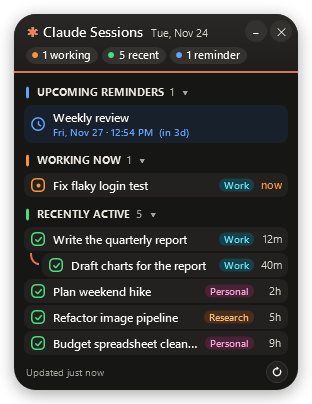
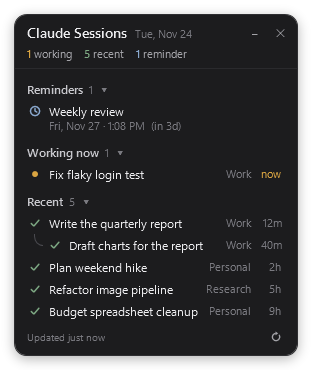
Claude Sessions 1.1.0: plainer design
Neutral grey palette with one muted color per status, sentence-case
section names, plain-text counts and group names, bare status marks,
and a flat header. Install page section and README text simplified to match.

diff --git a/index.html b/index.html
@@ -39,14 +39,15 @@
   .mock-b .hi { outline:2px solid var(--red); outline-offset:6px; border-radius:6px; }
   .feat { display:flex; flex-wrap:wrap; gap:8px; justify-content:center; margin-top:18px; }
   .feat span { border:1px solid var(--line); border-radius:999px; padding:6px 12px; font-size:13px; color:var(--dim); }
-  .cs h2 { color:#e8875f; }
-  .cs .ico { background:rgba(217,119,87,.14); }
-  .cs .btn { background:#c96442; } .cs .btn:hover { background:#d97757; }
-  .shot { display:block; margin:12px auto 0; width:100%; max-width:300px; border-radius:20px; box-shadow:0 12px 32px rgba(0,0,0,.45); }
-  .prompt { position:relative; margin-top:10px; background:var(--card); border:1px solid var(--line); border-radius:18px; padding:14px 16px 14px; }
+  .cs { margin-top:44px; padding-top:28px; border-top:1px solid var(--line); }
+  .cs h3 { font-size:19px; font-weight:600; }
+  .cs .sub { color:var(--dim); font-size:14px; margin-top:4px; }
+  .cs .sub a { color:var(--text); }
+  .shot { display:block; margin:18px auto 0; width:100%; max-width:300px; border-radius:12px; box-shadow:0 8px 24px rgba(0,0,0,.4); }
+  .prompt { margin-top:10px; border:1px solid var(--line); border-radius:12px; padding:14px 16px; }
   .prompt pre { white-space:pre-wrap; word-break:break-word; font:13px/1.5 ui-monospace, Consolas, monospace; color:var(--text); margin:0 0 12px; }
-  .prompt button { font:600 14px/1 -apple-system, "Segoe UI", Roboto, sans-serif; color:#fff; background:#c96442; border:0; border-radius:999px; padding:10px 16px; cursor:pointer; transition:transform .15s, background .2s; }
-  .prompt button:hover { background:#d97757; } .prompt button:active { transform:scale(.95); }
+  .prompt button { font:600 14px/1 -apple-system, "Segoe UI", Roboto, sans-serif; color:var(--text); background:transparent; border:1px solid rgba(255,255,255,.22); border-radius:8px; padding:9px 14px; cursor:pointer; }
+  .prompt button:hover { background:rgba(255,255,255,.06); }
   footer { text-align:center; color:#6e6e73; font-size:13px; margin-top:36px; }
   footer a { color:var(--dim); }
   @keyframes rise { from { opacity:0; transform:translateY(12px); } to { opacity:1; transform:none; } }
@@ -110,14 +111,10 @@
   </ol>
 
   <section class="cs">
-    <h2>ALSO: CLAUDE SESSIONS (WINDOWS)</h2>
-    <div class="card">
-      <div class="ico"><svg width="22" height="22" viewBox="0 0 24 24" fill="none" stroke="#e8875f" stroke-width="2.2" stroke-linecap="round"><path d="M12 3v18M3 12h18M5.6 5.6l12.8 12.8M18.4 5.6 5.6 18.4"/></svg></div>
-      <div class="what"><b>Claude Sessions</b><small>A card at the top right of the Claude desktop app: reminders, sessions working now, and recent sessions</small></div>
-      <a class="btn" href="https://github.com/chahatdeep/my-apps/tree/main/claude-sessions">Details</a>
-    </div>
+    <h3>Claude Sessions for Windows</h3>
+    <p class="sub">A small card for the Claude desktop app that lists your reminders, the sessions working now, and recent ones. Click a session to open it. <a href="https://github.com/chahatdeep/my-apps/tree/main/claude-sessions">Details</a></p>
     <img class="shot" src="claude-sessions/screenshots/dark.png" alt="The Claude Sessions card in dark mode" loading="lazy">
-    <p class="note" style="margin-top:18px">To install, paste this into a Claude Code session (Windows, Claude desktop app, Code tab), then open a new session:</p>
+    <p class="note" style="margin-top:18px">To install, paste this into a Claude Code session (Code tab), then open a new session:</p>
     <div class="prompt">
       <pre id="cs-prompt">Install "Claude Sessions" for me from https://github.com/chahatdeep/my-apps/tree/main/claude-sessions.
 Download https://github.com/chahatdeep/my-apps/archive/refs/heads/main.zip into a new empty folder and extract it.

diff --git a/claude-sessions/README.md b/claude-sessions/README.md
@@ -1,23 +1,16 @@
 # Claude Sessions
 
-A small card that sits at the **top right of the Claude desktop app** and shows, at a glance:
+A small card in the top right corner of the Claude desktop app. It lists your scheduled Claude tasks with their next run time, the sessions working right now, and sessions from the last 24 hours with their sidebar group. A session started from another one is indented under it.
 
-- **Upcoming reminders**: your scheduled Claude tasks, with the date and a countdown
-- **Working now**: which Claude sessions are busy right now
-- **Recently active**: sessions from the last 24 hours, with their sidebar group, and sessions started from another session nested under it
-
-Click a session to jump to it. Right-click a recent session to hide it from the list (it comes back when you use it again).
+Click a session to open it. Right-click a recent session to hide it; it reappears when you use it again.
 
 | Dark | Light | Minimized |
 | --- | --- | --- |
 | ![Dark](screenshots/dark.png) | ![Light](screenshots/light.png) | ![Minimized](screenshots/minimized.png) |
 
-- Follows Claude's theme (light or dark; "System" follows Windows) and switches live.
-- Stays attached to the Claude window: it moves with it, sits above Claude only (not above other apps), and hides when Claude is minimized.
-- **–** shrinks it to a slim pill with the three counts; each section folds with its ▾.
-- If you close it, it comes back the next time you open a Claude session, with `/sessions`, or from the Start menu ("Claude Sessions").
+It uses Claude's light or dark setting (or Windows' when Claude is set to System) and changes when that does. The card moves with the Claude window, stays above Claude but not above other apps, and hides when Claude is minimized. The – button shrinks it to one line of counts, and each section folds with its arrow. If you close it, it comes back the next time a Claude session starts, when you type `/sessions`, or from the Start menu.
 
-## Install: paste this into Claude
+## Install by pasting a prompt into Claude
 
 Needs Windows 10/11 and the Claude desktop app (Code tab). Paste this into a Claude Code session:
 
@@ -60,7 +53,7 @@ It stops the card, removes both folders and the shortcut, and takes the mod back
 
 ## Notes
 
-- Claude only reports whether a session is running or not, so a session waiting for your answer shows under **Recently active**, not as a separate state.
+- Claude only reports whether a session is running or not, so a session waiting for your answer shows under Recent, not as a separate state.
 - Sessions that were already open when you installed don't load the mod. New ones do.
 
 ## License
